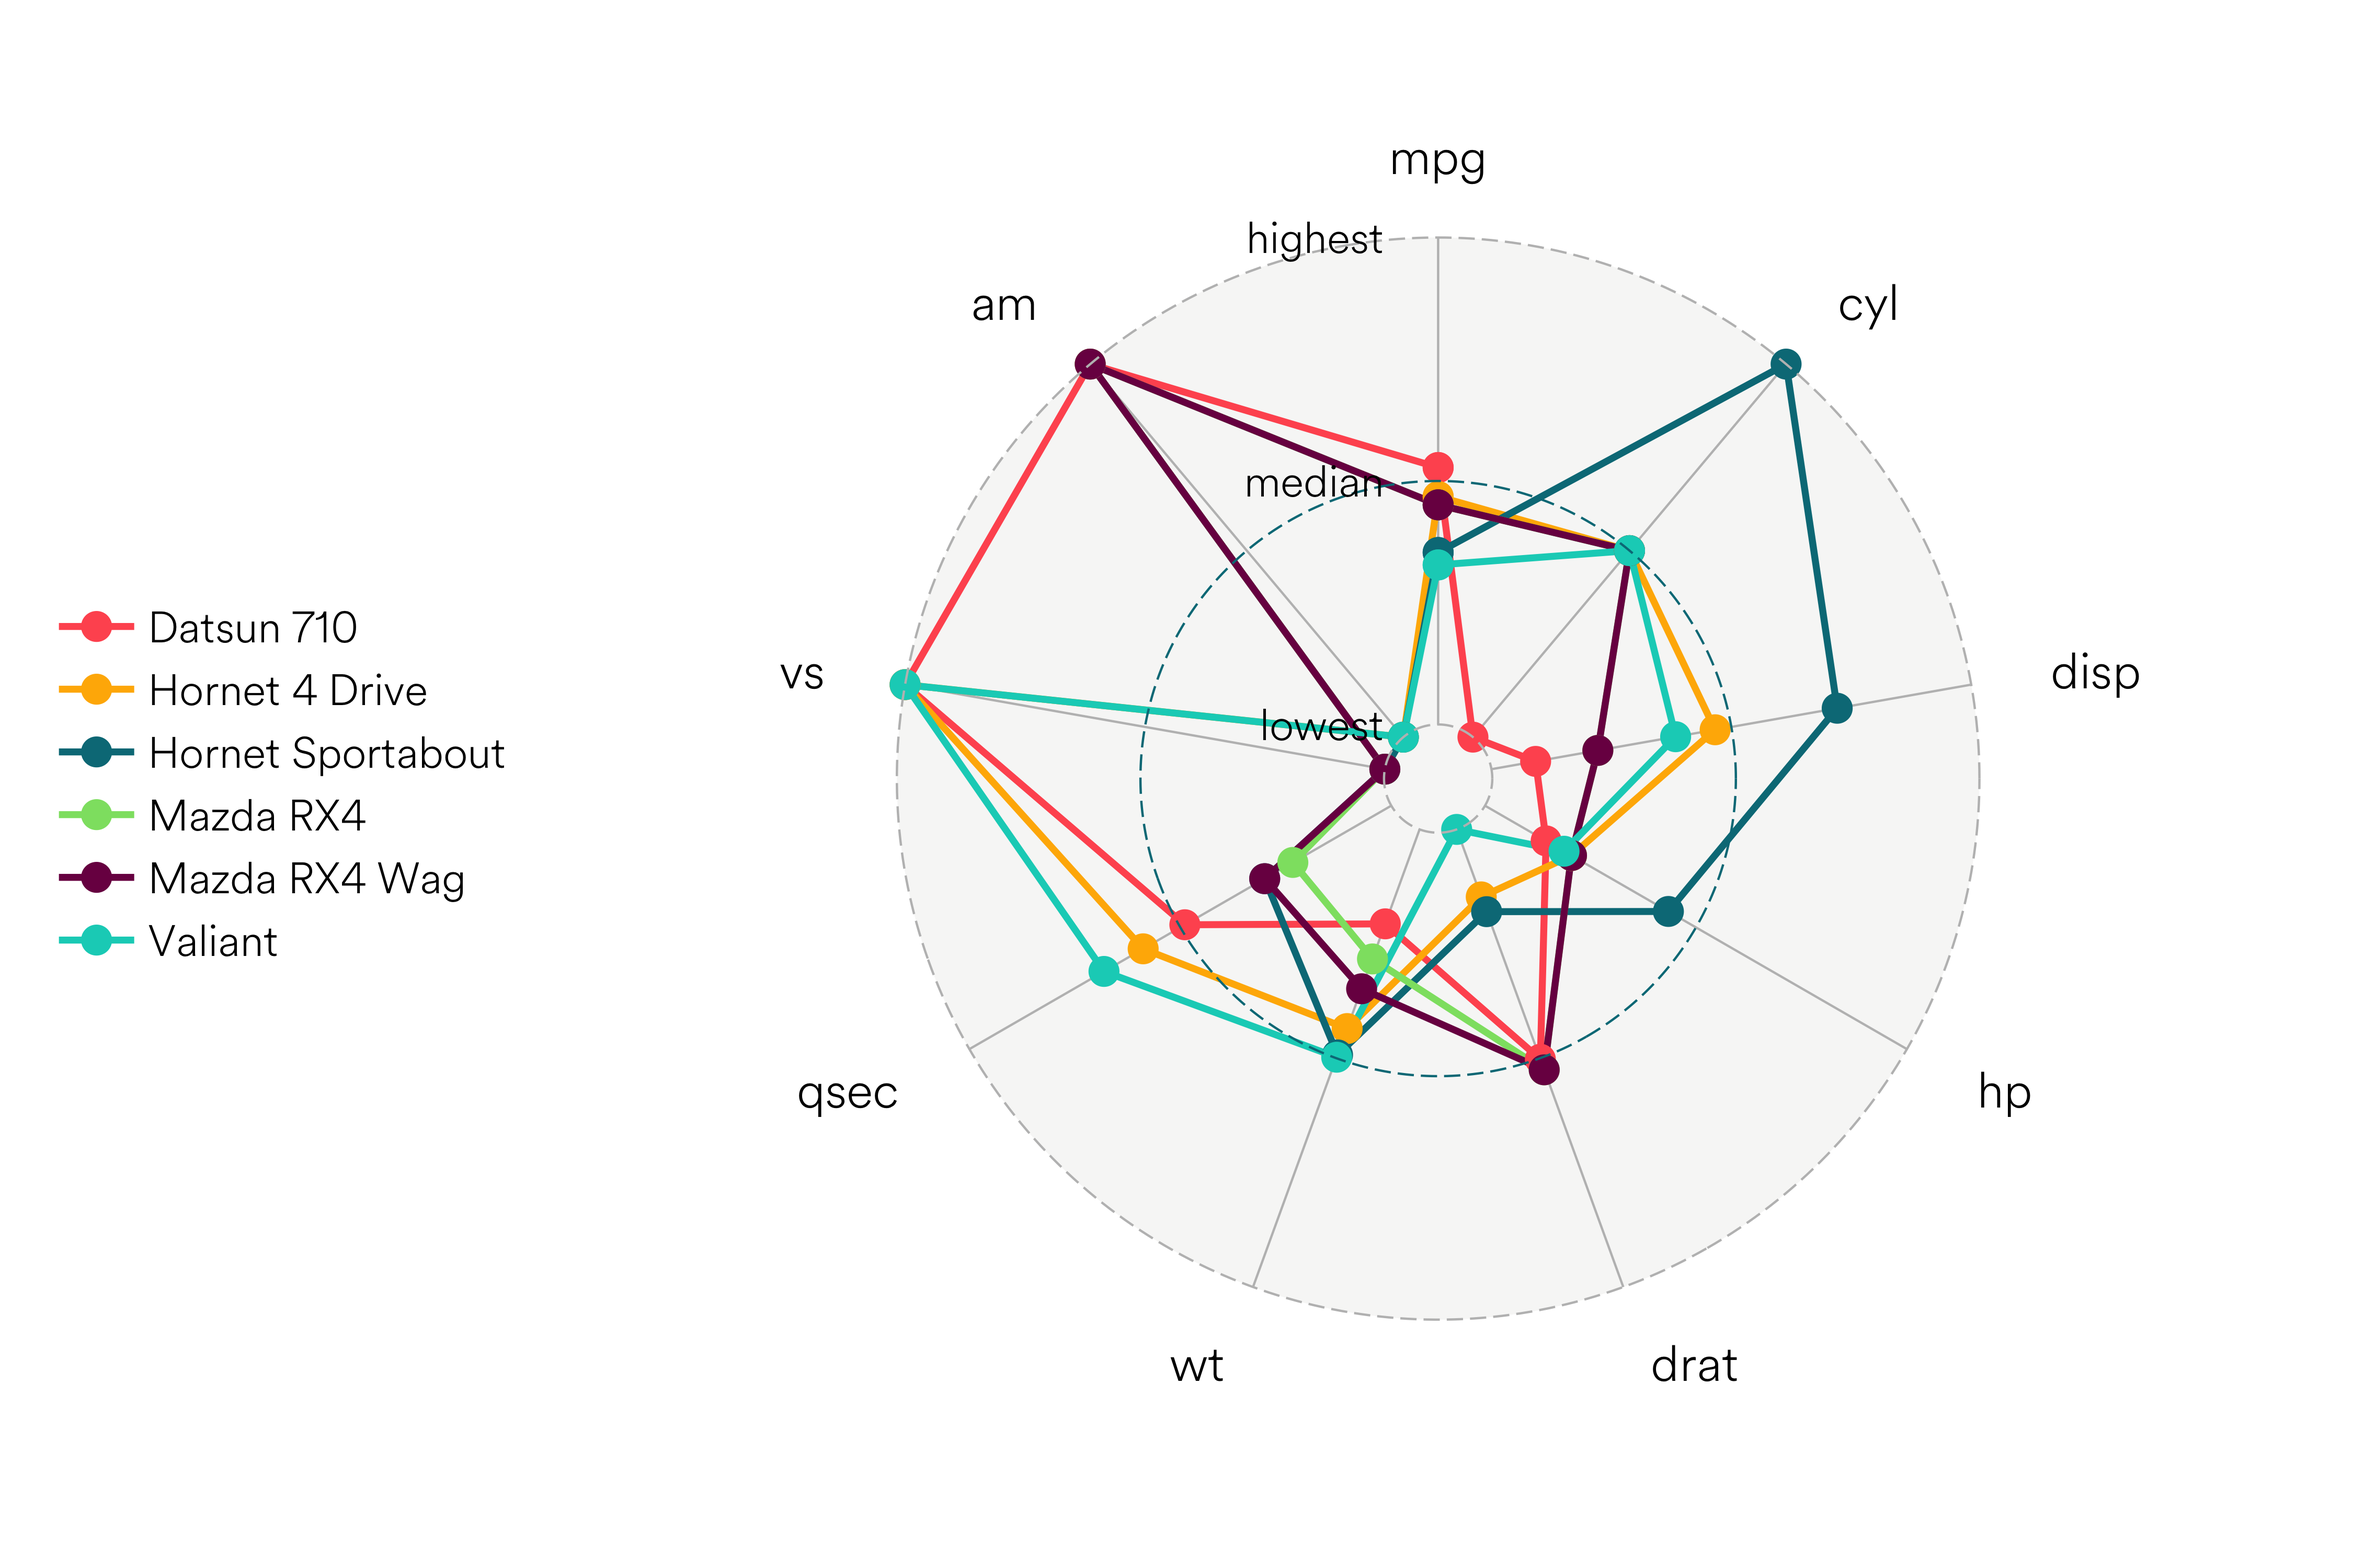
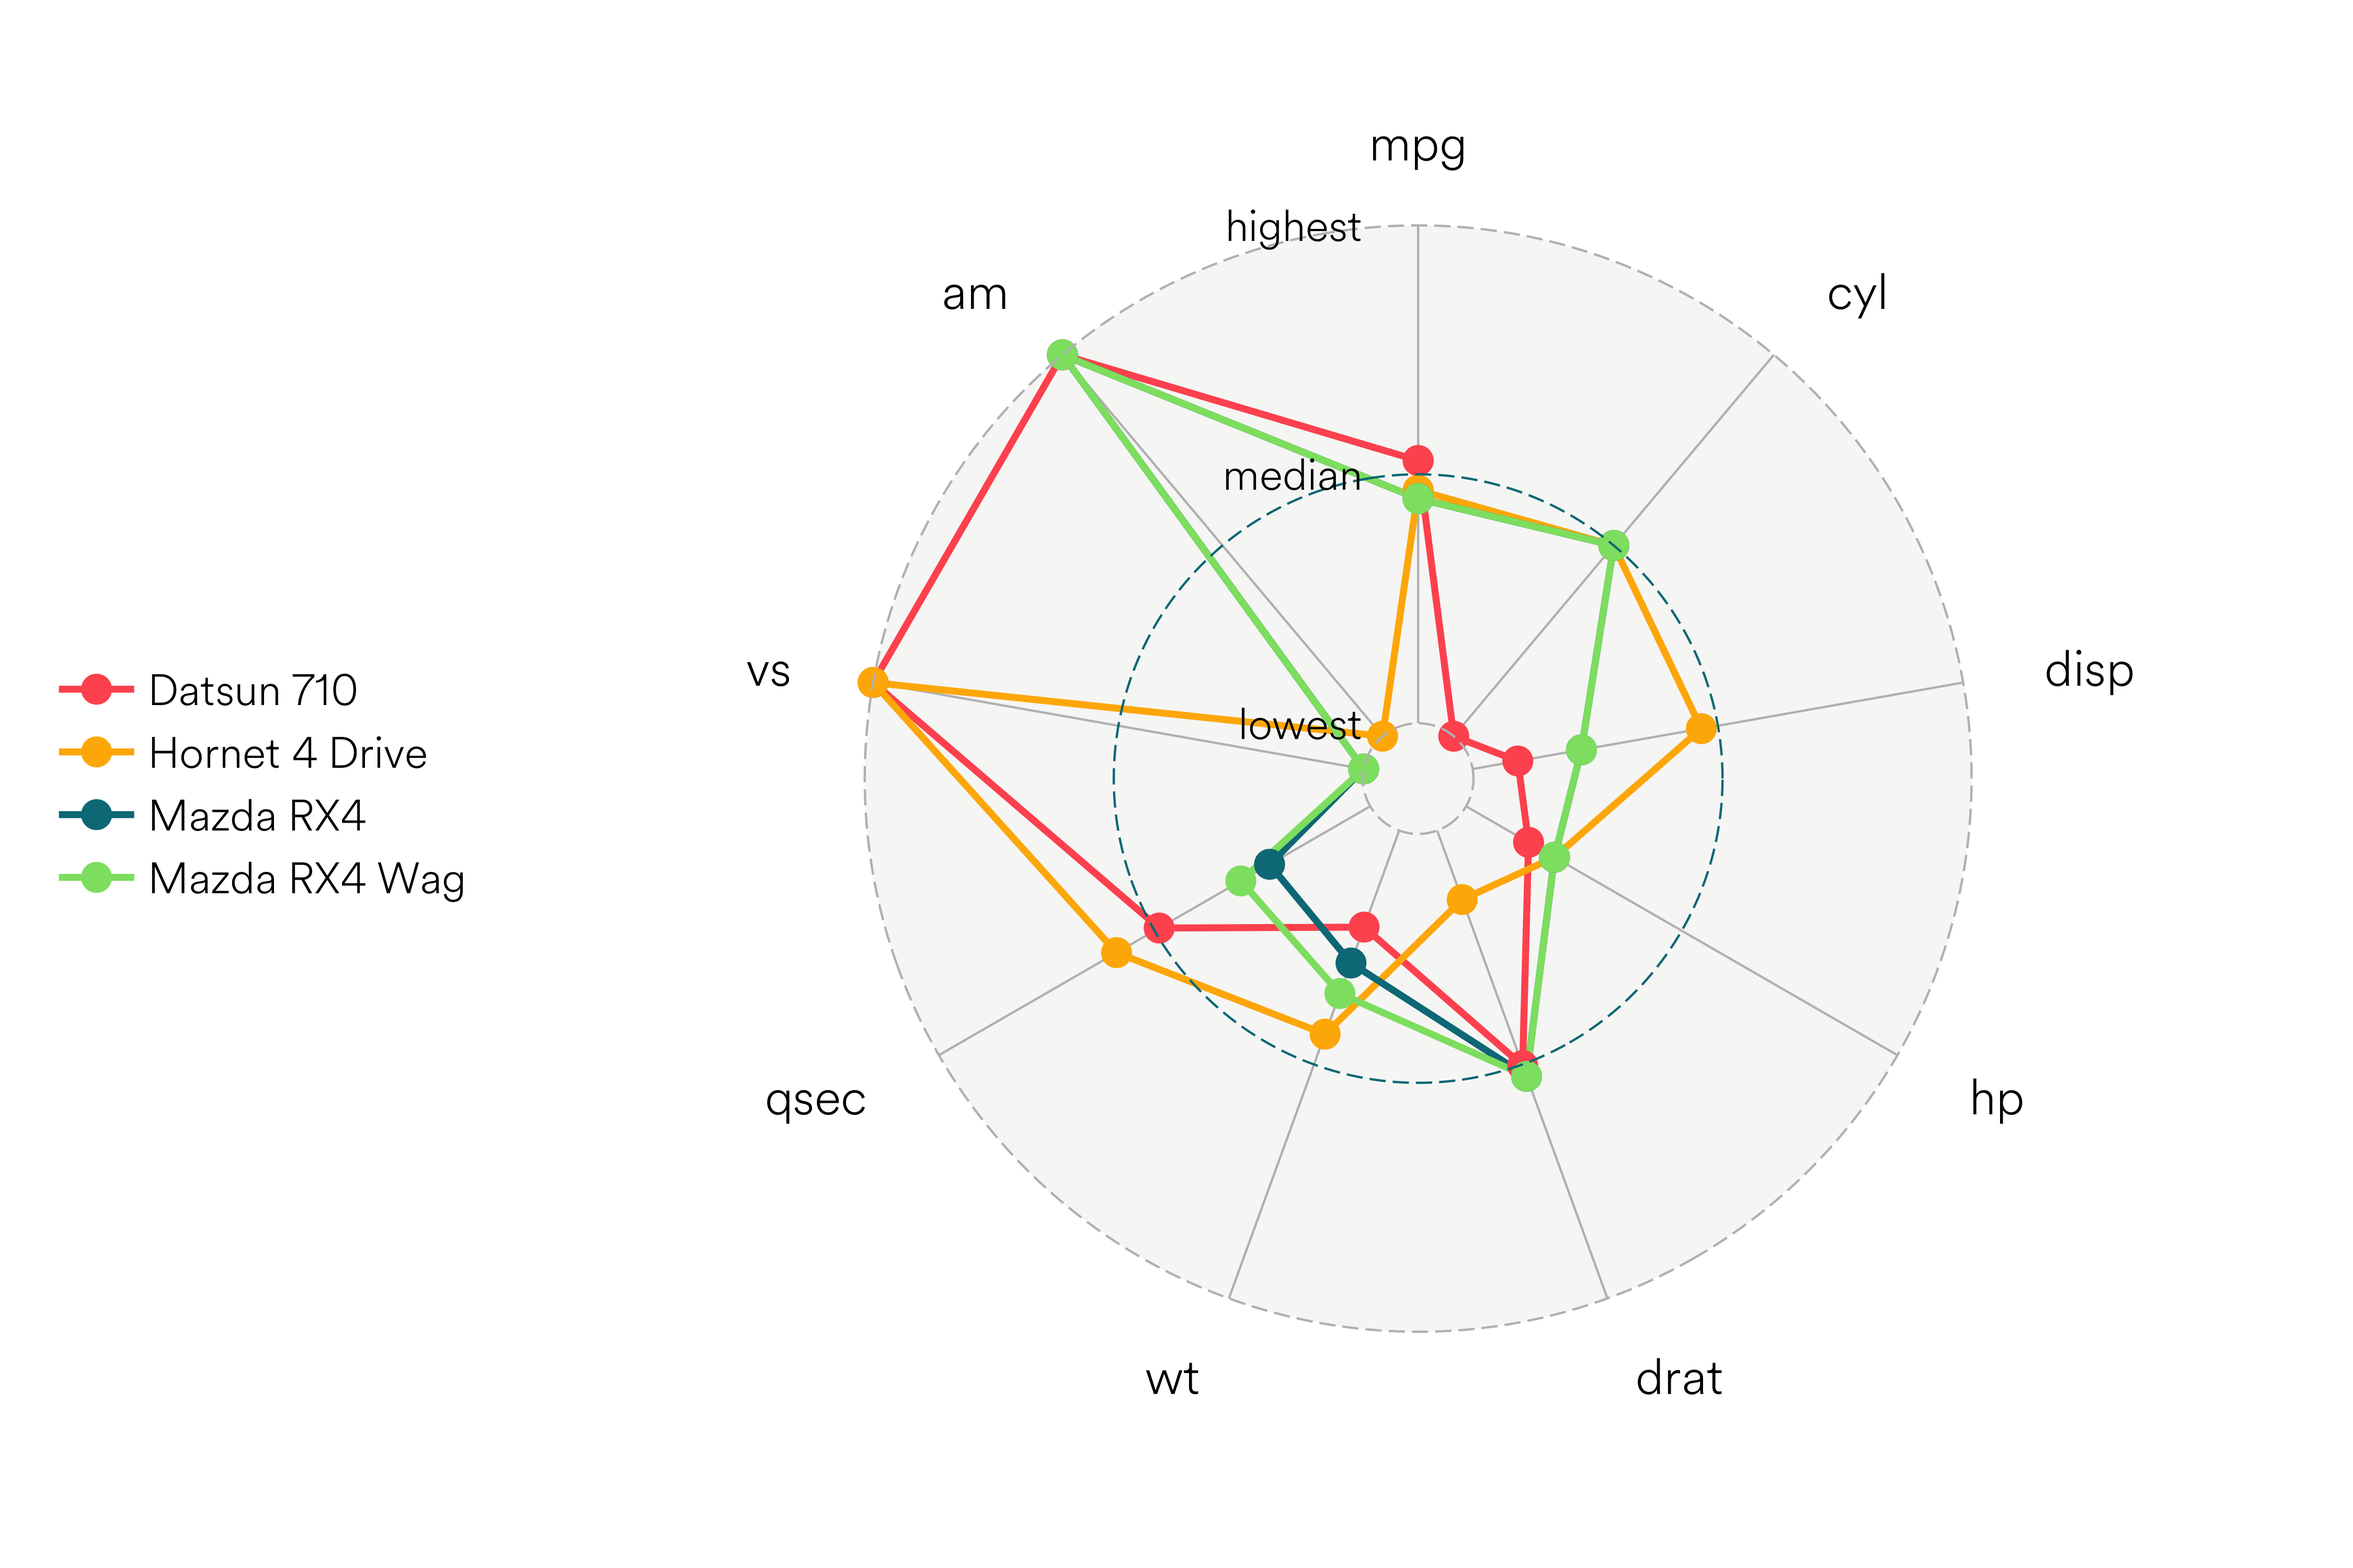
4 levels

diff --git a/README.md b/README.md
@@ -28,7 +28,7 @@ library(scales)
 mtcars %>%
      add_rownames( var = "group" ) %>%
      mutate_each(funs(rescale), -group) %>%
-     head() %>% select(1:10) -> mtcars_radar
+     head(4) %>% select(1:10) -> mtcars_radar
 
 ggradar(mtcars_radar) 
 ```
@@ -43,14 +43,12 @@ knitr::kable(mtcars_radar,format="markdown")
 
 
 
-|group             |       mpg| cyl|      disp|        hp|      drat|        wt|      qsec| vs| am|
-|:-----------------|---------:|---:|---------:|---------:|---------:|---------:|---------:|--:|--:|
-|Mazda RX4         | 0.4510638| 0.5| 0.2217511| 0.2049470| 0.5253456| 0.2830478| 0.2333333|  0|  1|
-|Mazda RX4 Wag     | 0.4510638| 0.5| 0.2217511| 0.2049470| 0.5253456| 0.3482485| 0.3000000|  0|  1|
-|Datsun 710        | 0.5276596| 0.0| 0.0920429| 0.1448763| 0.5023041| 0.2063411| 0.4892857|  1|  1|
-|Hornet 4 Drive    | 0.4680851| 0.5| 0.4662010| 0.2049470| 0.1474654| 0.4351828| 0.5880952|  1|  0|
-|Hornet Sportabout | 0.3531915| 1.0| 0.7206286| 0.4346290| 0.1797235| 0.4927129| 0.3000000|  0|  0|
-|Valiant           | 0.3276596| 0.5| 0.3838863| 0.1872792| 0.0000000| 0.4978266| 0.6809524|  1|  0|
+|group          |       mpg| cyl|      disp|        hp|      drat|        wt|      qsec| vs| am|
+|:--------------|---------:|---:|---------:|---------:|---------:|---------:|---------:|--:|--:|
+|Mazda RX4      | 0.4510638| 0.5| 0.2217511| 0.2049470| 0.5253456| 0.2830478| 0.2333333|  0|  1|
+|Mazda RX4 Wag  | 0.4510638| 0.5| 0.2217511| 0.2049470| 0.5253456| 0.3482485| 0.3000000|  0|  1|
+|Datsun 710     | 0.5276596| 0.0| 0.0920429| 0.1448763| 0.5023041| 0.2063411| 0.4892857|  1|  1|
+|Hornet 4 Drive | 0.4680851| 0.5| 0.4662010| 0.2049470| 0.1474654| 0.4351828| 0.5880952|  1|  0|
 
 ## Custom fonts
 
